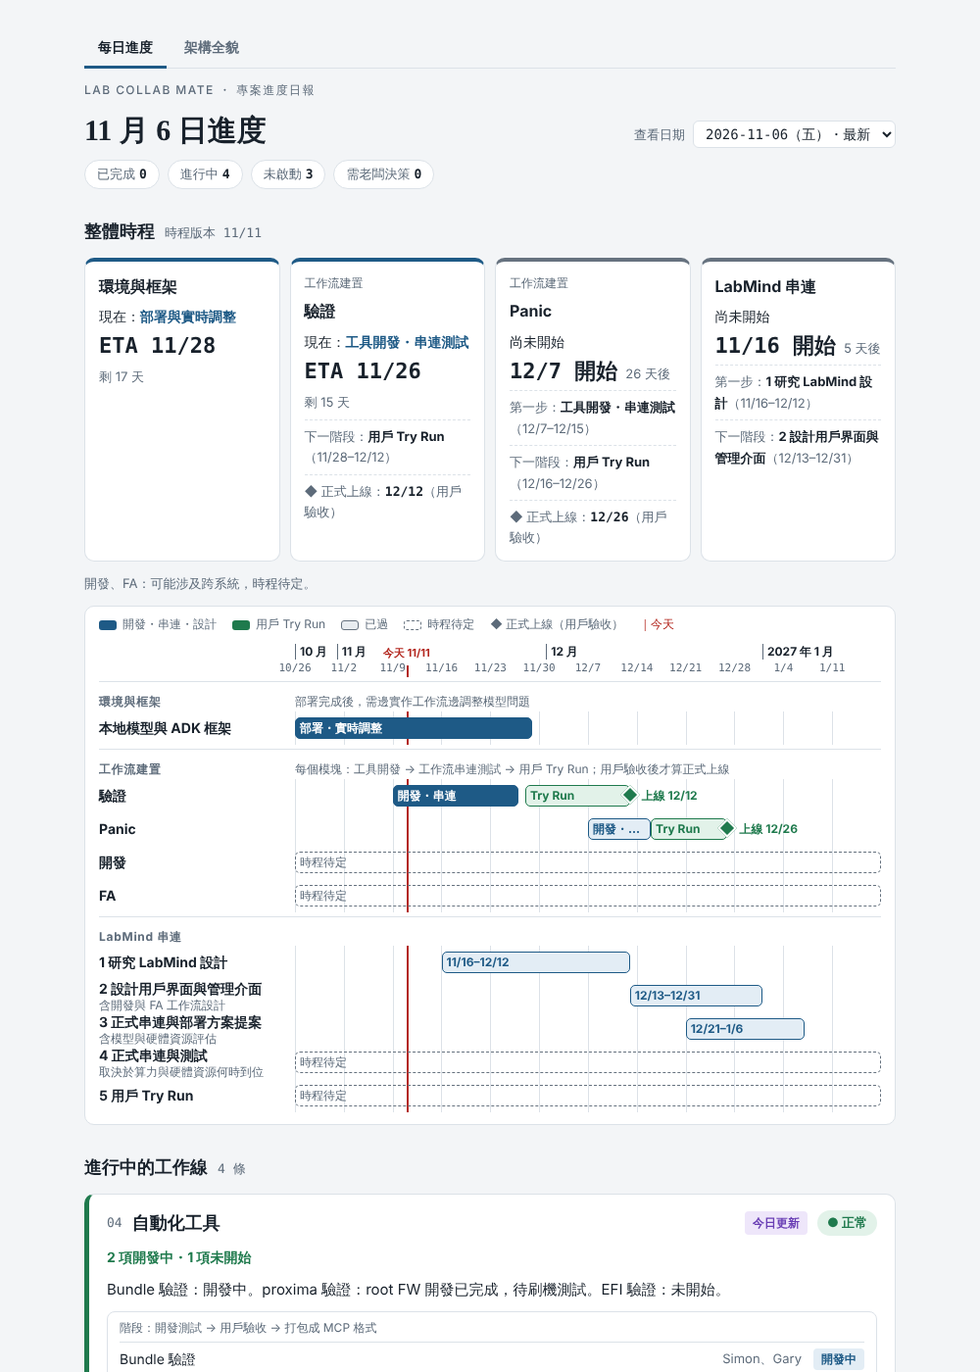
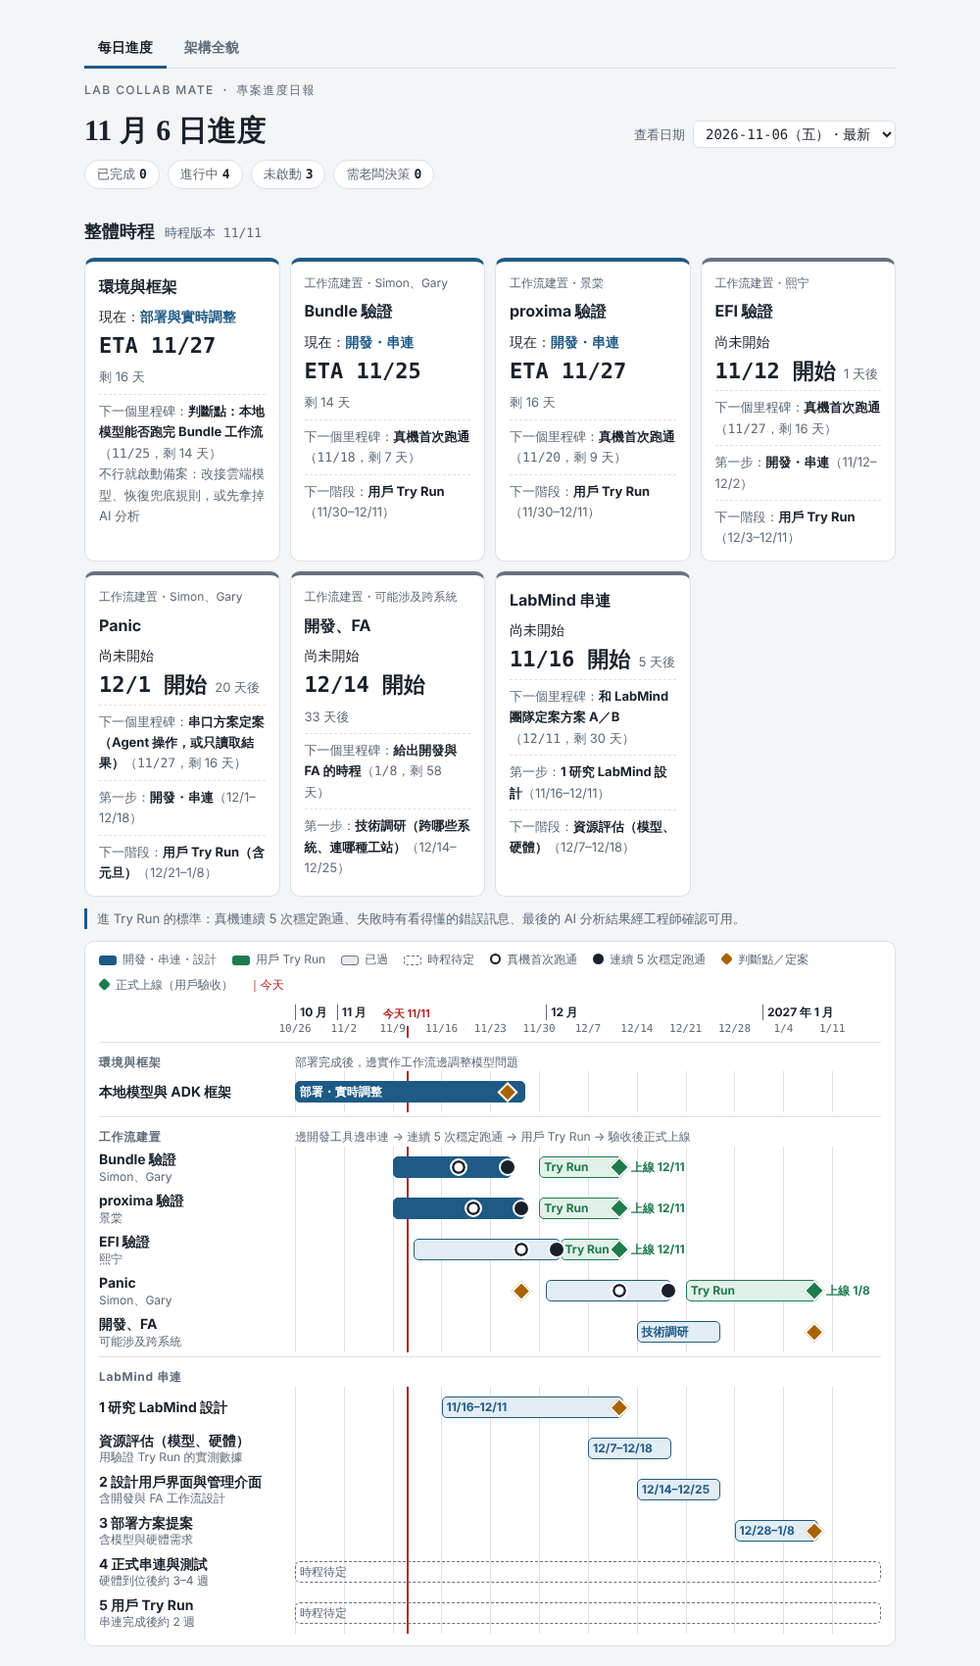
[2026-11-11_dashboard-schedule-and-arch-tab] 時程改為建議版並加上首次跑通／連續 5 次穩定跑通里程碑
Claude-Session: https://claude.ai/code/session_01HY2PekBDQgaxvznQLxGhAu

diff --git a/public/index.html b/public/index.html
@@ -167,22 +167,28 @@ details[open] summary .chev{transform:rotate(90deg)}
 .gax .wk{position:absolute;bottom:0;transform:translateX(-50%);font-family:var(--f-mono);font-size:11px}
 .ghd{font-size:12px;font-weight:700;letter-spacing:.06em;color:var(--muted);padding-top:10px;border-top:1px solid var(--line);margin-top:4px}
 .ghd .gn{font-weight:400;letter-spacing:0;font-size:12px}
-.grow{min-height:34px}
+.grow{min-height:42px}
 .grow .lb{font-size:14px;font-weight:700;padding-right:10px;line-height:1.3;min-width:0}
 .grow .lb small{display:block;font-weight:400;font-size:12px;color:var(--muted)}
-.trk{position:relative;height:34px;background:repeating-linear-gradient(to right,var(--line) 0 1px,transparent 1px calc(100% / var(--wks)))}
+.trk{position:relative;height:42px;background:repeating-linear-gradient(to right,var(--line) 0 1px,transparent 1px calc(100% / var(--wks)))}
 .today{position:absolute;top:0;bottom:0;width:0;border-left:2px solid var(--bad);z-index:0}
 .gax .today{top:auto;height:12px}
 .gax .todayl{position:absolute;top:0;transform:translateX(-50%);font-size:11px;font-weight:700;color:var(--bad);background:var(--surface);padding:0 4px;z-index:3;white-space:nowrap}
-.bar{position:absolute;z-index:1;top:6px;height:22px;border-radius:5px;font-size:12px;font-weight:700;line-height:20px;padding:0 4px;white-space:nowrap;overflow:hidden;text-overflow:ellipsis;border:1px solid var(--bc);background:var(--bs);color:var(--bc)}
+.bar{position:absolute;z-index:1;top:10px;height:22px;border-radius:5px;font-size:12px;font-weight:700;line-height:20px;padding:0 4px;white-space:nowrap;overflow:hidden;text-overflow:ellipsis;border:1px solid var(--bc);background:var(--bs);color:var(--bc)}
 .bar.build{--bc:var(--accent);--bs:var(--accent-soft)}
 .bar.try{--bc:var(--ok);--bs:var(--ok-soft)}
 .bar.now{background:var(--bc);color:var(--surface)}
 .bar.past{--bc:var(--idle);--bs:var(--idle-soft);font-weight:500}
 .bar.open{border-right:0;border-radius:5px 0 0 5px;background:linear-gradient(to right,var(--bs) 60%,transparent);border-style:solid dashed}
 .bar.tbdbar{left:0;right:0;border:1px dashed var(--idle);background:transparent;color:var(--muted);font-weight:500}
-.ms{position:absolute;top:9px;width:14px;height:14px;transform:translateX(-50%) rotate(45deg);background:var(--ok);border:2px solid var(--surface);z-index:1}
-.msl{position:absolute;top:7px;font-size:12px;font-weight:700;color:var(--ok);padding-left:12px;white-space:nowrap}
+.mk{position:absolute;top:14px;width:14px;height:14px;transform:translateX(-50%);z-index:2;border:2px solid var(--surface);box-sizing:content-box;margin-top:-2px}
+.mk.first{border-radius:50%;background:var(--surface);box-shadow:inset 0 0 0 2.5px var(--fg)}
+.mk.stable{border-radius:50%;background:var(--fg)}
+.mk.gate{transform:translateX(-50%) rotate(45deg);background:var(--warn);width:11px;height:11px;margin-top:0}
+.mk.live{transform:translateX(-50%) rotate(45deg);background:var(--ok);width:12px;height:12px;margin-top:-1px}
+.glegend .k{display:inline-block;width:11px;height:11px;margin-right:6px;vertical-align:-1px}
+.tbdline{border-left:3px solid var(--accent);padding-left:10px}
+.msl{position:absolute;z-index:2;top:11px;font-size:12px;font-weight:700;color:var(--ok);padding-left:12px;white-space:nowrap}
 .glegend{display:flex;flex-wrap:wrap;gap:6px 16px;font-size:12px;color:var(--muted);padding:8px 14px 0}
 .glegend i{display:inline-block;width:18px;height:10px;border-radius:3px;margin-right:6px;vertical-align:middle;font-style:normal}
 footer{font-size:12px;color:var(--muted);border-top:1px solid var(--line);padding-top:12px;display:flex;flex-direction:column;gap:4px}
@@ -215,7 +221,7 @@ footer{font-size:12px;color:var(--muted);border-top:1px solid var(--line);paddin
     <h2 id="s0">整體時程 <span class="count" id="c0"></span></h2>
     <div class="tracks" id="tracks"></div>
     <p class="tbdline" id="tbdline"></p>
-    <div class="gwrap"><div class="glegend"><span><i style="background:var(--accent)"></i>開發・串連・設計</span><span><i style="background:var(--ok)"></i>用戶 Try Run</span><span><i style="background:var(--idle-soft);border:1px solid var(--idle)"></i>已過</span><span><i style="border:1px dashed var(--idle)"></i>時程待定</span><span>◆ 正式上線（用戶驗收）</span><span style="color:var(--bad)">｜今天</span></div><div class="gantt" id="gantt"></div></div>
+    <div class="gwrap"><div class="glegend"><span><i style="background:var(--accent)"></i>開發・串連・設計</span><span><i style="background:var(--ok)"></i>用戶 Try Run</span><span><i style="background:var(--idle-soft);border:1px solid var(--idle)"></i>已過</span><span><i style="border:1px dashed var(--idle)"></i>時程待定</span><span><i class="k" style="border-radius:50%;box-shadow:inset 0 0 0 2px var(--fg)"></i>真機首次跑通</span><span><i class="k" style="border-radius:50%;background:var(--fg)"></i>連續 5 次穩定跑通</span><span><i class="k" style="background:var(--warn);transform:rotate(45deg) scale(.85)"></i>判斷點／定案</span><span><i class="k" style="background:var(--ok);transform:rotate(45deg) scale(.85)"></i>正式上線（用戶驗收）</span><span style="color:var(--bad)">｜今天</span></div><div class="gantt" id="gantt"></div></div>
   </section>
 
   <section aria-labelledby="s1">
@@ -248,31 +254,46 @@ footer{font-size:12px;color:var(--muted);border-top:1px solid var(--line);paddin
 </div>
 
 <script>
-/* 整體時程。s／e＝開始／結束日；e:null＝結束日待定；s:null＝整段待定。row:"one"＝所有步驟畫在同一列，"each"＝每步一列。kind：build＝開發／串連／設計，try＝用戶 Try Run */
+/* 整體時程。s／e＝開始／結束日；s:null＝整段待定。row:"one"＝所有步驟畫在同一列，"each"＝每步一列。
+   kind：build＝開發・串連・設計，try＝用戶 Try Run。ms＝里程碑 [日期, 說明, 類型]：first＝真機首次跑通，stable＝連續 5 次穩定跑通，gate＝判斷點／定案，live＝正式上線 */
 const PLAN = {
   updated:"2026-11-11", from:"2026-10-26", weeks:12,
+  rule:"進 Try Run 的標準：真機連續 5 次穩定跑通、失敗時有看得懂的錯誤訊息、最後的 AI 分析結果經工程師確認可用。",
   groups:[
-    {name:"環境與框架", note:"部署完成後，需邊實作工作流邊調整模型問題"},
-    {name:"工作流建置", note:"每個模塊：工具開發 → 工作流串連測試 → 用戶 Try Run；用戶驗收後才算正式上線"},
+    {name:"環境與框架", note:"部署完成後，邊實作工作流邊調整模型問題"},
+    {name:"工作流建置", note:"邊開發工具邊串連 → 連續 5 次穩定跑通 → 用戶 Try Run → 驗收後正式上線"},
     {name:"LabMind 串連"}
   ],
   tracks:[
-    {name:"環境與框架", label:"本地模型與 ADK 框架", group:0, row:"one", steps:[
-      {n:"部署與實時調整", short:"部署・實時調整", s:"2026-10-26", e:"2026-11-28", kind:"build"}]},
-    {name:"驗證", group:1, row:"one", live:"2026-12-12", steps:[
-      {n:"工具開發・串連測試", short:"開發・串連", s:"2026-11-09", e:"2026-11-26", kind:"build"},
-      {n:"用戶 Try Run", short:"Try Run", s:"2026-11-28", e:"2026-12-12", kind:"try"}]},
-    {name:"Panic", group:1, row:"one", live:"2026-12-26", steps:[
-      {n:"工具開發・串連測試", short:"開發・串連", s:"2026-12-07", e:"2026-12-15", kind:"build"},
-      {n:"用戶 Try Run", short:"Try Run", s:"2026-12-16", e:"2026-12-26", kind:"try"}]},
-    {name:"開發", group:1, row:"one", steps:[{n:"可能涉及跨系統，時程待定", s:null}]},
-    {name:"FA", group:1, row:"one", steps:[{n:"可能涉及跨系統，時程待定", s:null}]},
+    {name:"環境與框架", label:"本地模型與 ADK 框架", group:0, row:"one",
+     steps:[{n:"部署與實時調整", short:"部署・實時調整", s:"2026-10-26", e:"2026-11-27", kind:"build"}],
+     ms:[["2026-11-25","判斷點：本地模型能否跑完 Bundle 工作流","gate","不行就啟動備案：改接雲端模型、恢復兜底規則，或先拿掉 AI 分析"]]},
+    {name:"Bundle 驗證", label:"Bundle 驗證", sub:"Simon、Gary", group:1, row:"one",
+     steps:[{n:"開發・串連", short:"", s:"2026-11-09", e:"2026-11-25", kind:"build"},
+            {n:"用戶 Try Run", short:"Try Run", s:"2026-11-30", e:"2026-12-11", kind:"try"}],
+     ms:[["2026-11-18","真機首次跑通","first"],["2026-11-25","連續 5 次穩定跑通","stable"],["2026-12-11","正式上線","live"]]},
+    {name:"proxima 驗證", label:"proxima 驗證", sub:"景棠", group:1, row:"one",
+     steps:[{n:"開發・串連", short:"", s:"2026-11-09", e:"2026-11-27", kind:"build"},
+            {n:"用戶 Try Run", short:"Try Run", s:"2026-11-30", e:"2026-12-11", kind:"try"}],
+     ms:[["2026-11-20","真機首次跑通","first"],["2026-11-27","連續 5 次穩定跑通","stable"],["2026-12-11","正式上線","live"]]},
+    {name:"EFI 驗證", label:"EFI 驗證", sub:"熙宁", group:1, row:"one",
+     steps:[{n:"開發・串連", short:"", s:"2026-11-12", e:"2026-12-02", kind:"build"},
+            {n:"用戶 Try Run", short:"Try Run", s:"2026-12-03", e:"2026-12-11", kind:"try"}],
+     ms:[["2026-11-27","真機首次跑通","first"],["2026-12-02","連續 5 次穩定跑通","stable"],["2026-12-11","正式上線","live"]]},
+    {name:"Panic", label:"Panic", sub:"Simon、Gary", group:1, row:"one",
+     steps:[{n:"開發・串連", short:"", s:"2026-12-01", e:"2026-12-18", kind:"build"},
+            {n:"用戶 Try Run（含元旦）", short:"Try Run", s:"2026-12-21", e:"2027-01-08", kind:"try"}],
+     ms:[["2026-11-27","串口方案定案（Agent 操作，或只讀取結果）","gate"],["2026-12-11","真機首次跑通","first"],["2026-12-18","連續 5 次穩定跑通","stable"],["2027-01-08","正式上線","live"]]},
+    {name:"開發、FA", label:"開發、FA", sub:"可能涉及跨系統", group:1, row:"one",
+     steps:[{n:"技術調研（跨哪些系統、連哪種工站）", short:"技術調研", s:"2026-12-14", e:"2026-12-25", kind:"build"}],
+     ms:[["2027-01-08","給出開發與 FA 的時程","gate"]]},
     {name:"LabMind 串連", group:2, row:"each", steps:[
-      {n:"1 研究 LabMind 設計", s:"2026-11-16", e:"2026-12-12", kind:"build"},
-      {n:"2 設計用戶界面與管理介面", sub:"含開發與 FA 工作流設計", s:"2026-12-13", e:"2026-12-31", kind:"build"},
-      {n:"3 正式串連與部署方案提案", sub:"含模型與硬體資源評估", s:"2026-12-21", e:"2027-01-06", kind:"build"},
-      {n:"4 正式串連與測試", sub:"取決於算力與硬體資源何時到位", s:null},
-      {n:"5 用戶 Try Run", s:null}]}
+      {n:"1 研究 LabMind 設計", s:"2026-11-16", e:"2026-12-11", kind:"build", ms:[["2026-12-11","和 LabMind 團隊定案方案 A／B","gate"]]},
+      {n:"資源評估（模型、硬體）", sub:"用驗證 Try Run 的實測數據", s:"2026-12-07", e:"2026-12-18", kind:"build"},
+      {n:"2 設計用戶界面與管理介面", sub:"含開發與 FA 工作流設計", s:"2026-12-14", e:"2026-12-25", kind:"build"},
+      {n:"3 部署方案提案", sub:"含模型與硬體需求", s:"2026-12-28", e:"2027-01-08", kind:"build", ms:[["2027-01-08","部署方案提案會","gate"]]},
+      {n:"4 正式串連與測試", sub:"硬體到位後約 3–4 週", s:null},
+      {n:"5 用戶 Try Run", sub:"串連完成後約 2 週", s:null}]}
   ]
 };
 
@@ -393,42 +414,45 @@ const issueHTML = (x, ws) => `<div class="issue ${x.type}"><span class="k">${TAG
 const dn = s => Date.UTC(+s.slice(0,4), +s.slice(5,7)-1, +s.slice(8,10)) / 864e5;
 const mdd = s => `${+s.slice(5,7)}/${+s.slice(8,10)}`;
 const rng = x => x.s ? (x.e ? `${mdd(x.s)}–${mdd(x.e)}` : `${mdd(x.s)} 起・結束待定`) : "時程待定";
+const MSK = {first:"真機首次跑通", stable:"連續 5 次穩定跑通", gate:"判斷點／定案", live:"正式上線"};
 function renderPlan(){
   const t0 = new Date(), today = Date.UTC(t0.getFullYear(), t0.getMonth(), t0.getDate()) / 864e5;
   const A = dn(PLAN.from), span = PLAN.weeks * 7, pct = d => ((d - A) / span * 100).toFixed(3) + "%";
   const pctEnd = d => ((d + 1 - A) / span * 100).toFixed(3) + "%";   // 結束日當天算在內
+  const pctMid = d => ((d + .5 - A) / span * 100).toFixed(3) + "%";
   const inAxis = today >= A && today < A + span;
+  const left = d => d === today ? "今天" : `剩 ${d - today} 天`;
   $("c0").textContent = `時程版本 ${mdd(PLAN.updated)}`;
 
-  /* 摘要卡：每條線現在在做什麼、ETA、下一步 */
-  const dated = PLAN.tracks.filter(tr => tr.steps.some(x => x.s));
-  const undated = PLAN.tracks.filter(tr => !tr.steps.some(x => x.s));
-  $("tracks").innerHTML = dated.map(tr => {
+  /* 摘要卡：每條線現在在做什麼、ETA、下一個里程碑、下一階段 */
+  $("tracks").innerHTML = PLAN.tracks.map(tr => {
     const st = tr.steps;
-    const cur = st.filter(x => x.s && dn(x.s) <= today && (!x.e || today <= dn(x.e)));
+    const cur = st.filter(x => x.s && dn(x.s) <= today && today <= dn(x.e));
     const last = cur.length ? st.indexOf(cur[cur.length-1]) : -1;
     const nxt = st.find((x,i) => i > last && !(x.s && dn(x.s) <= today));
-    const allPast = !cur.length && st.every(x => x.s && x.e && dn(x.e) < today);
+    const allPast = !cur.length && st.every(x => x.s && dn(x.e) < today);
     const tc = cur.some(x=>x.kind==="try") ? "var(--ok)" : cur.length ? "var(--accent)" : "var(--idle)";
+    const ms = [...(tr.ms||[]), ...st.flatMap(x => x.ms||[])].filter(m => dn(m[0]) >= today).sort((a,b) => dn(a[0]) - dn(b[0]));
     let head;
     if (cur.length) head = cur.map(x => `<div class="cur">現在：<b>${esc(x.n)}</b></div>
-      <div class="eta"><span class="big">${x.e?`ETA ${mdd(x.e)}`:"ETA 待定"}</span>${x.e?`<span class="left">剩 ${dn(x.e)-today} 天</span>`:""}</div>`).join("");
+      <div class="eta"><span class="big">ETA ${mdd(x.e)}</span><span class="left">${left(dn(x.e))}</span></div>`).join("");
     else if (allPast) head = `<div class="cur"><b>依計畫已結束</b></div>`;
     else head = `<div class="cur">尚未開始</div><div class="eta"><span class="big">${nxt&&nxt.s?`${mdd(nxt.s)} 開始`:"待定"}</span>${nxt&&nxt.s?`<span class="left">${dn(nxt.s)-today} 天後</span>`:""}</div>`;
     const nx = cur.length || allPast ? nxt : st[st.indexOf(nxt)+1];
-    const live = tr.live ? `<div class="nx">◆ 正式上線：<b class="mono">${mdd(tr.live)}</b>（用戶驗收）</div>` : "";
-    return `<div class="trkcard" style="--tc:${tc}">${PLAN.groups[tr.group].name!==tr.name?`<div class="grp">${esc(PLAN.groups[tr.group].name)}</div>`:""}<h3>${esc(tr.name)}</h3>${head}
+    const m = ms[0];
+    return `<div class="trkcard" style="--tc:${tc}">${PLAN.groups[tr.group].name!==tr.name?`<div class="grp">${esc(PLAN.groups[tr.group].name)}${tr.sub?`・${esc(tr.sub)}`:""}</div>`:""}<h3>${esc(tr.name)}</h3>${head}
+      ${m ? `<div class="nx">下一個里程碑：<b>${esc(m[1])}</b>（<span class="mono">${mdd(m[0])}</span>，${left(dn(m[0]))}）${m[3]?`<br>${esc(m[3])}`:""}</div>` : ""}
       ${!cur.length && nxt ? `<div class="nx">第一步：<b>${esc(nxt.n)}</b>（${rng(nxt)}）</div>` : ""}
-      ${nx ? `<div class="nx">下一階段：<b>${esc(nx.n)}</b>（${rng(nx)}）</div>` : ""}${live}</div>`;
+      ${nx ? `<div class="nx">下一階段：<b>${esc(nx.n)}</b>（${rng(nx)}）</div>` : ""}</div>`;
   }).join("");
-  $("tbdline").textContent = undated.length ? `${undated.map(t=>t.name).join("、")}：${undated[0].steps[0].n}。` : "";
+  $("tbdline").textContent = PLAN.rule;
 
   /* 甘特圖 */
   const todayEl = inAxis ? `<span class="today" style="left:${pct(today)}"></span>` : "";
   let ticks = "";
   for (let w = 0; w < PLAN.weeks; w++) {
-    const d = new Date((A + w*7) * 864e5), m = d.getUTCMonth()+1, dd = d.getUTCDate();
-    ticks += `<span class="wk" style="left:${pct(A+w*7)}">${m}/${dd}</span>`;
+    const d = new Date((A + w*7) * 864e5);
+    ticks += `<span class="wk" style="left:${pct(A+w*7)}">${d.getUTCMonth()+1}/${d.getUTCDate()}</span>`;
   }
   for (let d = A; d < A + span; d++) {
     const x = new Date(d * 864e5);
@@ -437,17 +461,18 @@ function renderPlan(){
   if (inAxis) ticks += `<span class="todayl" style="left:${pct(today)}">今天 ${t0.getMonth()+1}/${t0.getDate()}</span>${todayEl}`;
   const bar = x => {
     if (!x.s) return `<span class="bar tbdbar" title="${esc(x.n)}">時程待定</span>`;
-    const st = x.e && dn(x.e) < today ? "past" : (dn(x.s) <= today ? "now" : "");
-    const R = x.e ? pctEnd(dn(x.e)) : "100%";
-    return `<span class="bar ${x.kind} ${st} ${x.e?"":"open"}" style="left:${pct(dn(x.s))};width:calc(${R} - ${pct(dn(x.s))})" title="${esc(x.n)}　${rng(x)}">${esc(x.short || rng(x))}</span>`;
+    const st = dn(x.e) < today ? "past" : (dn(x.s) <= today ? "now" : "");
+    return `<span class="bar ${x.kind} ${st}" style="left:${pct(dn(x.s))};width:calc(${pctEnd(dn(x.e))} - ${pct(dn(x.s))})" title="${esc(x.n)}　${rng(x)}">${esc(x.short ?? rng(x))}</span>`;
   };
-  const row = (label, sub, steps, live) => `<div class="grow"><div class="lb">${esc(label)}${sub?`<small>${esc(sub)}</small>`:""}</div>
-    <div class="trk" style="--wks:${PLAN.weeks}">${steps.map(bar).join("")}${live?`<span class="ms" style="left:${pctEnd(dn(live))}"></span><span class="msl" style="left:${pctEnd(dn(live))}">上線 ${mdd(live)}</span>`:""}${todayEl}</div></div>`;
+  const mark = ([d, txt, k, more]) => `<span class="mk ${k}" style="left:${pctMid(dn(d))}" title="${mdd(d)}　${esc(txt)}${more?"："+esc(more):""}"></span>` +
+    (k === "live" ? `<span class="msl" style="left:${pctMid(dn(d))}">上線 ${mdd(d)}</span>` : "");
+  const row = (label, sub, steps, ms) => `<div class="grow"><div class="lb">${esc(label)}${sub?`<small>${esc(sub)}</small>`:""}</div>
+    <div class="trk" style="--wks:${PLAN.weeks}">${steps.map(bar).join("")}${(ms||[]).map(mark).join("")}${todayEl}</div></div>`;
   $("gantt").innerHTML = `<div class="gax"><span></span><div class="ticks">${ticks}</div></div>` +
     PLAN.groups.map((g, gi) => `<div class="ghd"><span>${esc(g.name)}</span><span class="gn">${esc(g.note||"")}</span></div>` +
       PLAN.tracks.filter(tr => tr.group === gi).map(tr => tr.row === "each"
-        ? tr.steps.map(x => row(x.n, x.sub, [x])).join("")
-        : row(tr.label || tr.name, "", tr.steps, tr.live)).join("")).join("");
+        ? tr.steps.map(x => row(x.n, x.sub, [x], x.ms)).join("")
+        : row(tr.label || tr.name, tr.sub, tr.steps, tr.ms)).join("")).join("");
 }
 
 function render(){

diff --git a/work/2026-11-11_dashboard-schedule-and-arch-tab/STATUS.md b/work/2026-11-11_dashboard-schedule-and-arch-tab/STATUS.md
@@ -9,7 +9,7 @@
   - 產生腳本：`work/2026-11-09_usb-agent-architecture-alignment/outputs/src/build_public_arch.py`（從架構頁原始檔抽圖，架構圖更新後重跑即可）
   - 截圖：`outputs/screenshots/`；截圖腳本 `outputs/src/shot.js`
 
-## 使用者提供的時程（11-11）
+## 使用者最初提供的時程（11-11，已由建議版取代）
 
 | 線 | 步驟 | 日期 |
 |---|---|---|
@@ -25,6 +25,33 @@
 | LabMind 串連 | 4 正式串連與測試（取決於算力與硬體資源） | TBD |
 | LabMind 串連 | 5 用戶 Try Run | TBD |
 
+## 已定案的決策
+
+| 日期 | 決策 |
+|---|---|
+| 11-11 | 時程改用 Claude 建議版（下表），取代使用者最初版本；工程師的實際估計之後再修正 |
+| 11-11 | 工程師邊開發工具邊串連，所以不分「工具開發」「串連測試」兩段，改用兩個里程碑：① 真機首次跑通、② 連續 5 次穩定跑通 |
+| 11-11 | 進 Try Run 的標準：真機連續 5 次穩定跑通、失敗時有看得懂的錯誤訊息、AI 分析結果經工程師確認可用 |
+| 11-11 | 只排工作日；原版 11/28、12/12、12/26 落在週末，已修正 |
+
+## 目前頁面上的時程（Claude 建議版）
+
+| 線 | 開發・串連 | ① 首次跑通 | ② 連續 5 次穩定跑通 | Try Run | 上線 |
+|---|---|---|---|---|---|
+| 環境與框架 | 10/26–11/27；11/25 判斷點（本地模型能否跑完 Bundle，不行就啟動備案） | | | | |
+| Bundle 驗證（Simon、Gary） | 11/9–11/25 | 11/18 | 11/25 | 11/30–12/11 | 12/11 |
+| proxima 驗證（景棠） | 11/9–11/27 | 11/20 | 11/27 | 11/30–12/11 | 12/11 |
+| EFI 驗證（熙宁） | 11/12–12/2 | 11/27 | 12/2 | 12/3–12/11 | 12/11 |
+| Panic（Simon、Gary） | 12/1–12/18；11/27 串口方案定案 | 12/11 | 12/18 | 12/21–1/8 | 1/8 |
+| 開發、FA | 技術調研 12/14–12/25；1/8 給出時程 | | | | |
+| LabMind 1 研究設計 | 11/16–12/11；12/11 和 LabMind 定案方案 A／B | | | | |
+| LabMind 資源評估（提前） | 12/7–12/18，用驗證 Try Run 實測數據 | | | | |
+| LabMind 2 介面設計 | 12/14–12/25 | | | | |
+| LabMind 3 部署方案提案 | 12/28–1/8；1/8 提案會 | | | | |
+| LabMind 4、5 | 硬體到位後約 3–4 週；串連後約 2 週 Try Run | | | | |
+
+排程原則：每週一個看得出做完沒的里程碑、同一人不同時排兩件重頭戲、風險前設判斷點、TBD 寫明哪天會知道、AI 工具只加速寫程式（真機測試與 Try Run 不壓縮）、只排工作日並留緩衝。
+
 ## 設計決定
 
 - 時程放在日報頁最上方（標題下），工程師打開就看得到；架構圖另開分頁。
@@ -33,7 +60,12 @@
 - 甘特圖：藍＝開發／串連／設計，綠＝Try Run，◆＝正式上線，虛線＝待定，紅線＝今天。手機上可左右滑動。
 - 架構分頁直接從架構頁原始檔抽出，不另外維護一份。
 
-## 待確認事項（給 PM 的建議，尚未反映在頁面）
+## 待確認事項
+
+- 建議 PM 向各負責人確認天數（做到真機跑通要幾天、要等誰、最擔心哪裡），再修正時程。
+- 確認後合併 main 上線。
+
+### 第一版時的建議（1–5 已反映在建議版時程）
 
 1. 驗證 11/9–11/26 要同時完成工具開發與串連測試；11/6 時 EFI 驗證工具尚未開始、工作流建置也未啟動。建議中間加一個「工具完成」里程碑（例如 11/19），延誤才看得出來。
 2. Panic 只有 9 天做開發＋串連，而且串口方案（agent 操作還是只讀結果）還沒定。Simon、Gary 同時負責 Bundle、刷機、Panic，並要支援驗證的 Try Run（到 12/12）。建議在 12/7 前先定 Panic 方案。
@@ -44,6 +76,10 @@
 7. 架構分頁方案 B 的標題仍是「待確認池」，架構頁已決議改名「承接池」，要不要一起改？
 
 ## 過程紀錄（由新到舊）
+
+### 2026-11-11（第二段）
+- 使用者請 Claude 代為規劃時程，採用建議版；並指出工程師是邊開發邊串連，改用「真機首次跑通／連續 5 次穩定跑通」兩個里程碑，用詞依使用者要求改直接。
+- 頁面：驗證拆成 Bundle、proxima、EFI 三列；甘特圖加里程碑標記（○ 首次跑通、● 穩定跑通、◆ 判斷點／定案、◆ 上線）；摘要卡加「下一個里程碑」；顯示進 Try Run 標準。
 
 ### 2026-11-11
 - 使用者提供整體時程，並要求新增架構全貌分頁（只要三張全貌圖）。

diff --git a/work/INDEX.md b/work/INDEX.md
@@ -3,4 +3,4 @@
 | 任務 | 狀態 | 最後更新 | 主要交付 |
 |---|---|---|---|
 | [USB-Agent 架構對齊與第二階段規劃](2026-11-09_usb-agent-architecture-alignment/STATUS.md) | 進行中：第二階段方案 A／B 待和 LabMind 團隊確認 | 2026-11-11 | [架構全貌頁（Artifact）](https://claude.ai/artifact/Wk9NHkqSibfzZLJsXvhyRj)，原始檔在 `outputs/lcm-architecture.html` |
-| [日報頁新增整體時程與架構全貌分頁](2026-11-11_dashboard-schedule-and-arch-tab/STATUS.md) | 待確認：分支已完成，待確認後合併 main 上線 | 2026-11-11 | `public/index.html` 時程區塊、`public/arch.html` |
+| [日報頁新增整體時程與架構全貌分頁](2026-11-11_dashboard-schedule-and-arch-tab/STATUS.md) | 待確認：時程改為建議版＋里程碑，待確認後合併 main 上線 | 2026-11-11 | `public/index.html` 時程區塊、`public/arch.html` |
